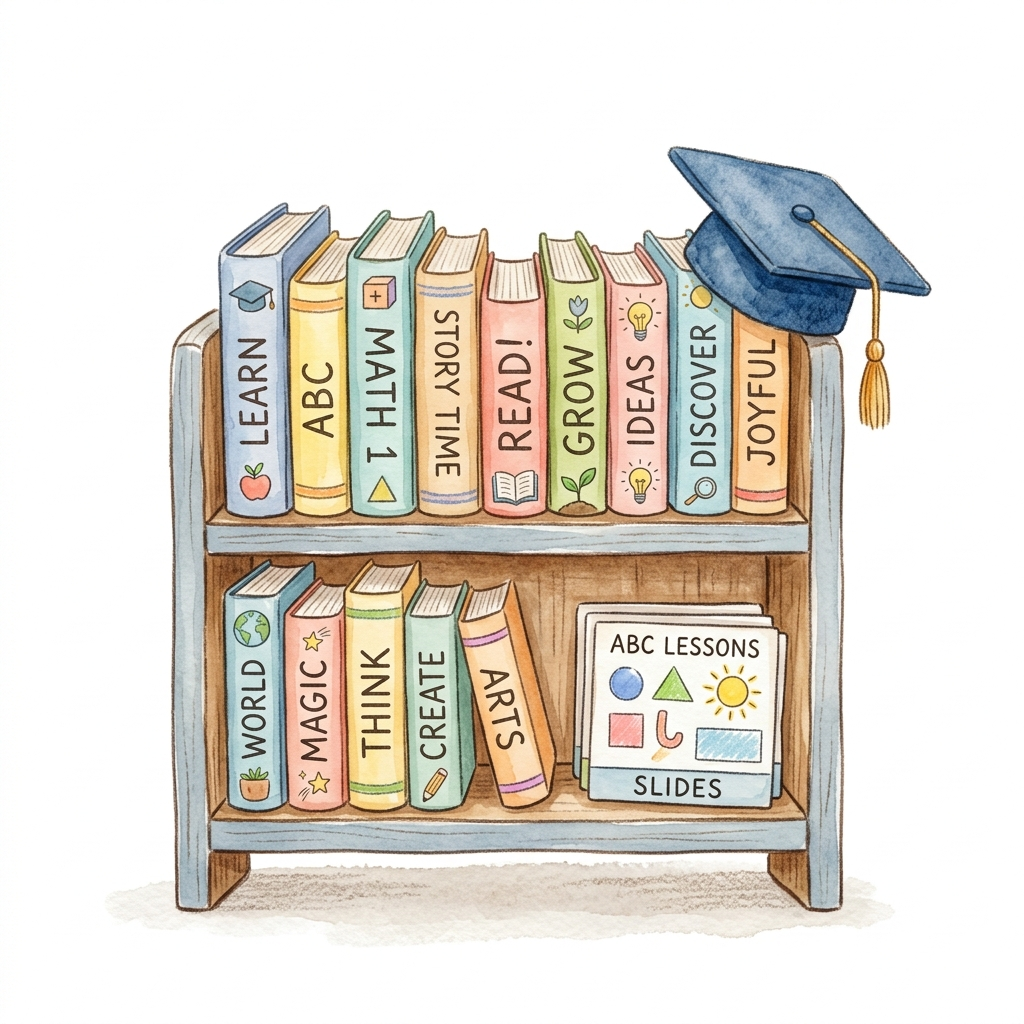
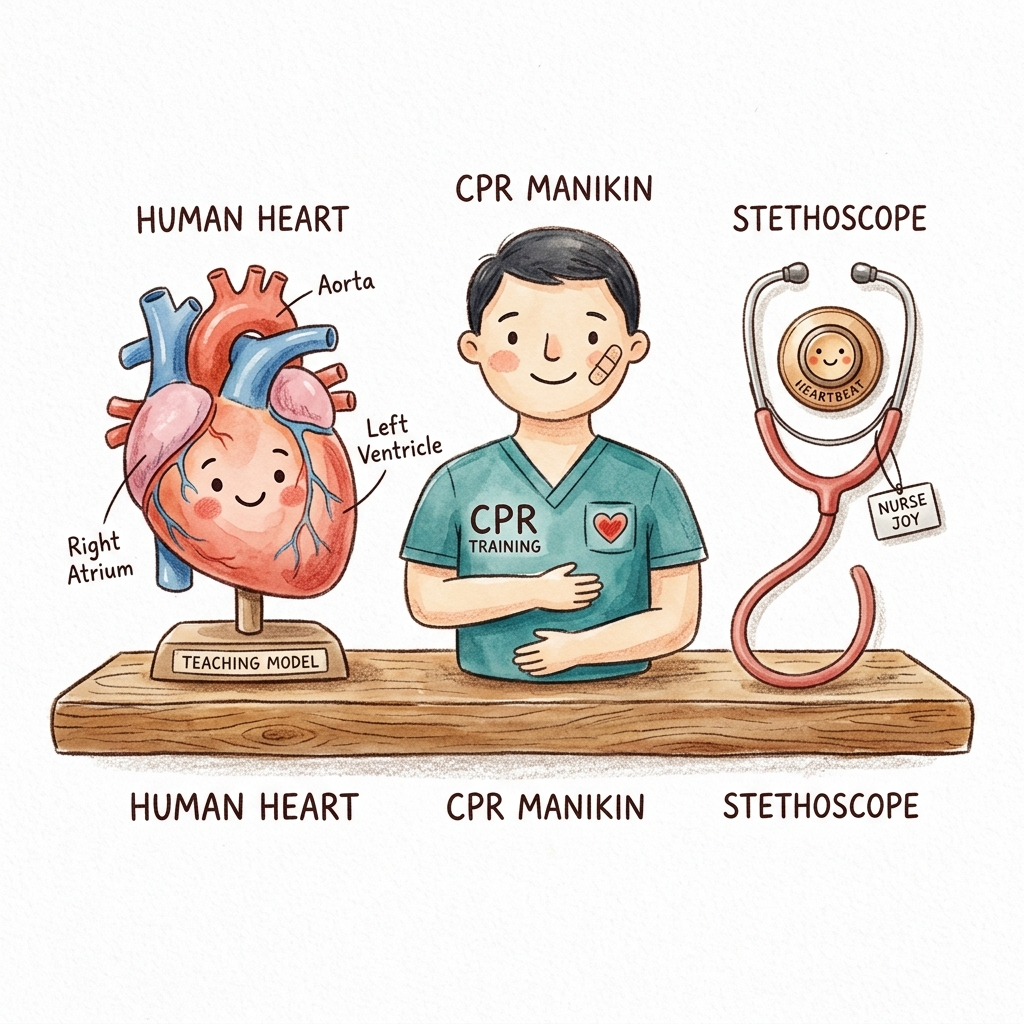
feat: focus ERMS card on medical simulator and teaching aid rental feature

diff --git a/index.html b/index.html
@@ -96,18 +96,18 @@
             <img src="images/resources.png" alt="教學資源管理系統插圖" class="card-image">
           </div>
           <div class="card-body">
-            <span class="card-badge badge-sage">行政教學輔助</span>
+            <span class="card-badge badge-sage">教具器材租借</span>
             <h4 class="card-title">教學資源管理系統</h4>
             <p class="card-desc">
-              為臨床教師與醫學學員打造的一站式資源協作中心。提供<strong>課程教材雲端化管理</strong>、教學大綱線上檢索、學習評量檔案追蹤等功能。透過直覺的分類介面與協作工具，打破空間限制，讓萬芳醫院寶貴的臨床醫學教學資源得以輕鬆共享與永續傳承。
+              提供臨床教學模型、醫療模擬器材與教學設備的一站式預約與租借平台。教師與學員可<strong>線上即時查詢教具在庫狀態</strong>、預約借用時間並<strong>追蹤歸還進度</strong>，大幅簡化傳統紙本登記與行政審查流程，有效提升醫學模擬教具的週轉效率與管理便利性。
             </p>
             <div class="card-features">
-              <span class="feature-tag"><i class="fa-solid fa-cloud-arrow-up"></i> 教材雲端管理</span>
-              <span class="feature-tag"><i class="fa-solid fa-magnifying-glass"></i> 教學大綱檢索</span>
-              <span class="feature-tag"><i class="fa-solid fa-book-open"></i> 檔案共享追蹤</span>
+              <span class="feature-tag"><i class="fa-solid fa-box-archive"></i> 模擬教具預約</span>
+              <span class="feature-tag"><i class="fa-solid fa-calendar-check"></i> 在庫即時查詢</span>
+              <span class="feature-tag"><i class="fa-solid fa-arrow-rotate-left"></i> 租借狀態追蹤</span>
             </div>
             <a href="https://erms.zeabur.app/" target="_blank" rel="noopener noreferrer" class="card-btn btn-sage" id="btn-erms">
-              <span>進入教學資源系統</span>
+              <span>進入教具租借系統</span>
               <i class="fa-solid fa-arrow-right-to-bracket"></i>
             </a>
           </div>